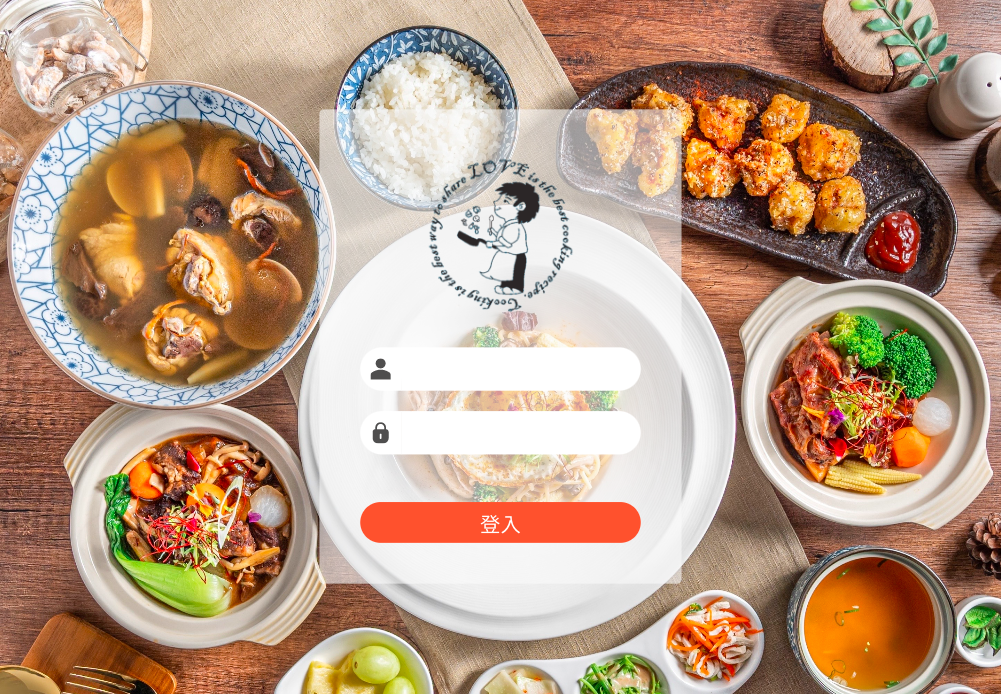
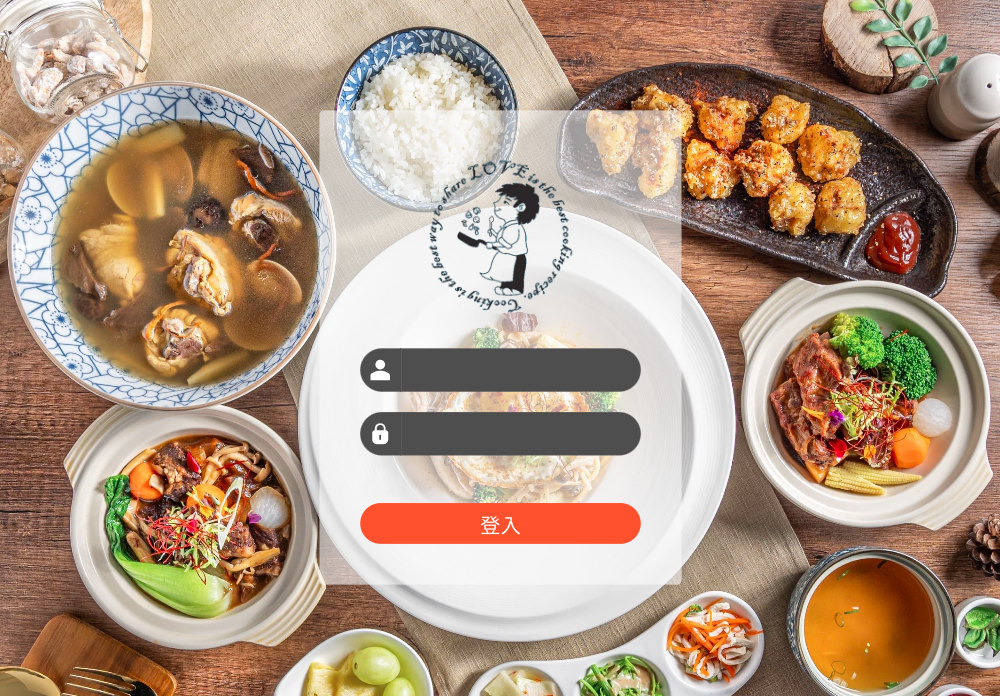
Optimize UI

diff --git a/src/CustomerPage/CustomerLoginPage.module.scss b/src/CustomerPage/CustomerLoginPage.module.scss
@@ -35,12 +35,28 @@
         width: 100%;
         padding: 0.5rem 1rem;
         border-radius: 50px;
-        border: var(--white);
+        border: #4f4e4e;
         text-align: center;
-        background-color: var(--white);
+        background-color: #4f4e4e;
+        color: var(--white);
         &:focus {
           outline: none;
         }
+      }
+      ::placeholder {
+        /* Chrome, Firefox, Opera, Safari 10.1+ */
+        color: var(--white);
+        opacity: 1; /* Firefox */
+      }
+
+      :-ms-input-placeholder {
+        /* Internet Explorer 10-11 */
+        color: var(--white);
+      }
+
+      ::-ms-input-placeholder {
+        /* Microsoft Edge */
+        color: var(--white);
       }
     }
     .login__button {

diff --git a/src/POSPage/AdminLoginPage.module.scss b/src/POSPage/AdminLoginPage.module.scss
@@ -31,12 +31,14 @@
       display: flex;
 
       .icon__container {
-        background-color: var(--white);
+        background-color: #4f4e4e;
         display: flex;
         width: 5vw;
         align-items: center;
         justify-content: center;
         border-radius: 50px 0px 0px 50px;
+        border-right: 2px solid #4f4e4e;
+
         .icon {
           width: 65%;
           height: 65%;
@@ -48,8 +50,9 @@
         width: 100%;
         padding: 0.5rem 1rem;
         border-radius: 0px 50px 50px 0px;
-        background-color: var(--white);
-        border: var(--white);
+        background-color: #4f4e4e;
+        border: #4f4e4e;
+        color: var(--white);
         &:focus {
           outline: none;
         }

diff --git a/src/POSPage/AdminLoginPage.jsx b/src/POSPage/AdminLoginPage.jsx
@@ -5,7 +5,7 @@ import { useState, useEffect } from 'react'
 import { useNavigate } from 'react-router-dom'
 // icon
 import LogoIcon from '../POSComponents/assets/logo/logo_circle_dark.png'
-import { ReactComponent as PersonIcon } from '../POSComponents/assets/icon/person_grey.svg'
+import { ReactComponent as PersonIcon } from '../POSComponents/assets/icon/person_white.svg'
 import { ReactComponent as PasswordIcon } from '../POSComponents/assets/icon/password.svg'
 import backgroundImage from '../POSComponents/assets/background_image/login_background.jpg'
 import { ReactComponent as LoadingIcon } from '../POSComponents/assets/icon/loading_ball.svg'
